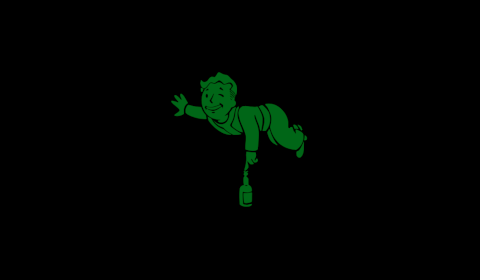
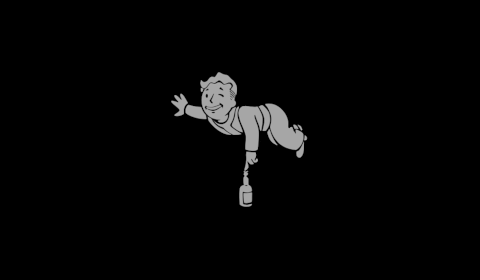
UI looks much better, green looks best but other colors now work on images and UI

Changed region(s): [[0.3438, 0.2571, 0.6562, 0.7429]]

diff --git a/game/core.py b/game/core.py
@@ -1,6 +1,8 @@
 import pygame
 import time
 
+from pygame import KEYDOWN, MOUSEMOTION, MOUSEBUTTONDOWN, QUIT
+
 import config
 from pypboy.boot.cmdlinebootup import CmdLineClass
 
@@ -31,6 +33,8 @@ class Engine(object):
 
         # Block queuing for unused events:
         pygame.event.set_blocked(None)
+        for ev in (QUIT, KEYDOWN):
+            pygame.event.set_allowed(ev)
 
 
         pygame.display.set_caption(title)
@@ -47,7 +51,7 @@ class Engine(object):
 
         # Scanlines:
         # self.scanline = pygame.image.load('images/pipboyscanlines.png'),
-        self.lineCount = 60  # 48 60 80
+        self.lineCount = 80  # 48 60 80
         self.lineHeight = config.HEIGHT // self.lineCount
         scanline = pygame.transform.smoothscale(pygame.image.load('images/pipboyscanlines.png'), (config.WIDTH, self.lineHeight))
 
@@ -62,9 +66,9 @@ class Engine(object):
 
         # scanMult = 0.5
         scanMult = 0.7
-        scanMultColour = (scanMult * 255, scanMult * 255, scanMult * 255)
-        self.scanLines.fill(scanMultColour, None, pygame.BLEND_RGB_MULT)
-        self.scanLines = self.scanLines.convert()
+        # scanMultColour = (scanMult * 255, scanMult * 255, scanMult * 255)
+        self.scanLines = self.scanLines.convert_alpha()
+        self.scanLines.fill(config.TINTCOLOUR, None, pygame.BLEND_RGB_MULT)
 
         # Start humming sound:
         if config.SOUND_ENABLED:
@@ -213,6 +217,9 @@ class Engine(object):
             # Add background:
             if (self.background != None):
                 drawImage.blit(self.background, (0, 0), None, pygame.BLEND_RGB_ADD)
+                self.background = pygame.transform.smoothscale(self.background, self.canvasSize)
+                self.background = self.background.convert_alpha()
+                self.background.fill(config.TINTCOLOUR, None, pygame.BLEND_RGB_MULT)
 
             # Add scanlines:
             drawImage.blit(self.overlayFrames[0], (0, 0), None, pygame.BLEND_RGB_MULT)

diff --git a/pypboy/modules/cmdline/boot.py b/pypboy/modules/cmdline/boot.py
@@ -2,8 +2,10 @@
 #	Neal D Corbett, 2013
 # RobCo bootup printer
 
-import pygame, os, time, random, math
-from pygame.locals import *
+import math
+import pygame
+import time
+
 import config
 
 
@@ -15,7 +17,7 @@ class CmdLineClass:
         self.canvas = pygame.Surface(self.parent.canvasSize)
 
         # Use scanlines as base, with tint:
-        self.baseOverlay = self.parent.scanLines.convert()
+        self.baseOverlay = self.parent.scanLines.convert_alpha()
         self.baseOverlay.fill(config.TINTCOLOUR, None, pygame.BLEND_RGB_MULT)
         self.cursorRect = [0, 0, config.charWidth, config.charWidth]
         self.cursorYoffset = (config.charHeight - config.charWidth - 4)
@@ -55,10 +57,10 @@ class CmdLineClass:
                 # Only actually redraw screen every so often:
                 lastChar = (charNum == lineEndNum)
                 if (math.fmod(charNum, 6) == 0) or (lastChar):
-                    if config.USE_SOUND:
+                    if config.SOUND_ENABLED:
                         config.SOUNDS["changemode"].play()
 
-                    charImage = config.MONOFONT.render(drawChars, True, config.DRAWCOLOUR, (0, 0, 0))
+                    charImage = config.MONOFONT.render(drawChars, True, config.TINTCOLOUR, (0, 0, 0))
                     self.canvas.blit(charImage, (printX, self.printY))
                     drawChars = ""
 
@@ -83,7 +85,7 @@ class CmdLineClass:
 
                     # Generate draw-image, including cursor:
                     drawImage = self.canvas.convert()
-                    pygame.draw.rect(drawImage, config.DRAWCOLOUR, self.cursorRect, 0)
+                    pygame.draw.rect(drawImage, config.TINTCOLOUR, self.cursorRect, 0)
 
                     drawImage.blit(self.parent.background, (0, 0), None, pygame.BLEND_RGB_ADD)
                     drawImage.blit(self.baseOverlay, (0, 0), None, pygame.BLEND_RGB_MULT)

diff --git a/pypboy/__init__.py b/pypboy/__init__.py
@@ -26,14 +26,8 @@ class BaseModule(game.EntityGroup):
         # For button press -> module change
         # not sure if needed: do more testing
         if config.GPIO_AVAILABLE:
-            GPIO.setup(17, GPIO.IN,
-                       pull_up_down=GPIO.PUD_DOWN)  # Set pin 10 to be an input pin and set initial value to be pulled low (off)
-            # GPIO.add_event_detect(17, GPIO.RISING, callback=self.button_callback)  # Setup event on pin 10 rising edge
-        # GPIO.setup(self.GPIO_LED_ID, GPIO.OUT)
-        # GPIO.output(self.GPIO_LED_ID, False)
-        #     GPIO.setup(27, GPIO.IN)
-        #     GPIO.setup(24, GPIO.IN)
-        # GPIO.add_event_detect(27, GPIO.RISING, callback=self.rotation_decode, bouncetime=10)
+            GPIO.setup(self.GPIO_LED_ID, GPIO.OUT)
+            GPIO.output(self.GPIO_LED_ID, False)
 
         self.pypboy = boy
         self.position = (0, 40)
@@ -84,6 +78,7 @@ class BaseModule(game.EntityGroup):
     def handle_action(self, action, value=0):
         if action.startswith("knob_"):
             if config.GPIO_AVAILABLE:
+                # NEEDS TWEAKING: GLITCHY INTERFACE EXPERIENCE WITH KNOB
                 if action.startswith("knob_"):
                     if action == "knob_down":
                         self.currentSubmodule -= 1
@@ -119,8 +114,8 @@ class BaseModule(game.EntityGroup):
         self.paused = False
         self.currentSubmodule = 0
         self.switch_submodule(0)
-        # if config.GPIO_AVAILABLE:
-        # GPIO.output(self.GPIO_LED_ID, True)
+        if config.GPIO_AVAILABLE:
+            GPIO.output(self.GPIO_LED_ID, True)
         if config.SOUND_ENABLED:
             self.module_change_sfx.play()
 

diff --git a/pypboy/modules/stats/status.py b/pypboy/modules/stats/status.py
@@ -36,11 +36,14 @@ class Health(game.Entity):
     def __init__(self):
         super(Health, self).__init__()
         # Make transparent and adopt TINTCOLOUR
-        self.image = pygame.image.load('images/pipboy.png')
+        self.image = pygame.image.load('images/pipboy.png').convert_alpha()
+        self.image.fill((config.TINTCOLOUR), None, pygame.BLEND_RGB_MULT)
+        # self.image.set_colorkey((255, 182, 66))
+
         self.rect = self.image.get_rect()
         self.image.blit(self.image, (0, -15))
-        # self.image = self.image.convert()
-        # self.image.set_colorkey(config.TINTCOLOUR)
+
+        # self.image = self.image.set_colorkey((255,0,255))        # self.image = self.image.convert()
         # self.image.set_alpha(10)
         text = ("%s - LVL %s" % (config.PLAYERNAME, config.PLAYERLEVEL))
         text = config.FONTS[14].render(text, True, config.TINTCOLOUR, (0, 0, 0))

diff --git a/pypboy/modules/stats/special.py b/pypboy/modules/stats/special.py
@@ -34,7 +34,8 @@ class Module(pypboy.SubModule):
         self.stat.rect = self.stat.image.get_rect()
         self.stat.rect[0] = 100
         self.stat.rect[1] = 0
-        self.stat.image = self.stat.image.convert()
+        self.stat.image = self.stat.image.convert_alpha()
+        self.stat.image.fill((config.TINTCOLOUR), None, pygame.BLEND_RGB_MULT)
 
     def show_str(self):
         self.changeStat('images/special_strength.png')
@@ -67,6 +68,8 @@ class Module(pypboy.SubModule):
 class Stat(game.Entity):
     def __init__(self, imageUrl):
         super(Stat, self).__init__()
-        self.image = pygame.image.load(imageUrl)
+
         self.rect = self.image.get_rect()
-        self.image = self.image.convert()
+        self.image = pygame.image.load(imageUrl)
+        self.image = self.image.convert_alpha()
+        self.image.fill(config.TINTCOLOUR, None, pygame.BLEND_RGB_MULT)

diff --git a/config.py b/config.py
@@ -12,9 +12,15 @@ touchScale = 1
 invertPosition = False
 GPIO_AVAILABLE = False
 RADIO_STOP = True
-QUICKLOAD = False
-# OUTPUT_WIDTH = 320
-# OUTPUT_HEIGHT = 240
+QUICKLOAD = True
+
+# Main
+
+TINTCOLOUR = pygame.Color (26, 255, 128) # Green
+# TINTCOLOUR = pygame.Color (46, 207, 255) # Blue
+# TINTCOLOUR = pygame.Color (255, 182, 66) # Amber
+# TINTCOLOUR = pygame.Color (192, 255, 255) # White
+
 
 #MAP_FOCUS = (-5.9347681, 54.5889076)
 #MAP_FOCUS = (-102.3016145, 21.8841274) #Old Default?
@@ -70,8 +76,6 @@ GPIO_ACTIONS = {
 #    20: "knob_2", #GPIO 24
 #	25: "knob_3" #GPIO 23
 }
-TINTCOLOUR = pygame.Color (26, 255, 128) # Green
-
 
 MAP_ICONS = {
     "camp": 		pygame.image.load('images/map_icons/camp.png'),

diff --git a/pypboy/core.py b/pypboy/core.py
@@ -28,7 +28,10 @@ class Pypboy(game.core.Engine):
             self.init_gpio_controls()
 
     def init_children(self):
-        self.background = pygame.image.load('images/overlay.png')
+        self.background = pygame.image.load('images/overlay.png').convert_alpha()
+        self.background.fill(config.TINTCOLOUR, None, pygame.BLEND_RGB_MULT)
+
+
         # border = pypboy.ui.Border()
         # self.root_children.add(border)
         scanlines = pypboy.ui.Scanlines(800, 480, 3, 1, [(0, 13, 3, 50), (6, 42, 22, 100), (0, 13, 3, 50)],)

diff --git a/pypboy/ui.py b/pypboy/ui.py
@@ -73,7 +73,7 @@ class Footer(game.Entity):
             text_width = 0
             while text_width < 54:
                 spaces = " ".join([" " for x in range(padding)])
-                text = config.FONTS[12].render("%s%s%s" % (spaces, m, spaces), True, config.TINTCOLOUR, (0, 0, 0))
+                text = config.FONTS[14].render("%s%s%s" % (spaces, m, spaces), True, config.TINTCOLOUR, (0, 0, 0))
                 text_width = text.get_size()[0]
                 padding += 1
             #print(m+" : "+str(text.get_size()))

diff --git a/game/radio.py b/game/radio.py
@@ -214,7 +214,7 @@ def play_pygame(file):
             
             for event in pygame.event.get():
                 if (event.type == pygame.KEYUP) or (event.type == pygame.KEYDOWN):
-                    if (event.PIOkey == pygame.K_UP):
+                    if (event.key == pygame.K_UP):
                         pygame.mixer.music.pause()
                         paused = True
                     elif (event.key == pygame.K_DOWN):

diff --git a/pypboy/modules/stats/__init__.py b/pypboy/modules/stats/__init__.py
@@ -9,7 +9,7 @@ from pypboy.modules.stats import general
 class Module(BaseModule):
 
     label = "STATS"
-    GPIO_LED_ID = 30 #GPIO 22 #19
+    # GPIO_LED_ID = 30 #GPIO 22 #19
 
     def __init__(self, *args, **kwargs):
         self.submodules = [

diff --git a/pypboy/modules/data/__init__.py b/pypboy/modules/data/__init__.py
@@ -9,7 +9,7 @@ from pypboy.modules.data import radio
 class Module(BaseModule):
 
     label = "DATA"
-    GPIO_LED_ID = 28 #GPIO 23 #23
+    # GPIO_LED_ID = 28 #GPIO 23 #23
 
     def __init__(self, *args, **kwargs):
         self.submodules = [

diff --git a/pypboy/modules/items/__init__.py b/pypboy/modules/items/__init__.py
@@ -9,7 +9,7 @@ from pypboy.modules.items import ammo
 class Module(BaseModule):
 
 	label = "ITEMS"
-	GPIO_LED_ID = 21
+	# GPIO_LED_ID = 21
 
 	def __init__(self, *args, **kwargs):
 		self.submodules = [
